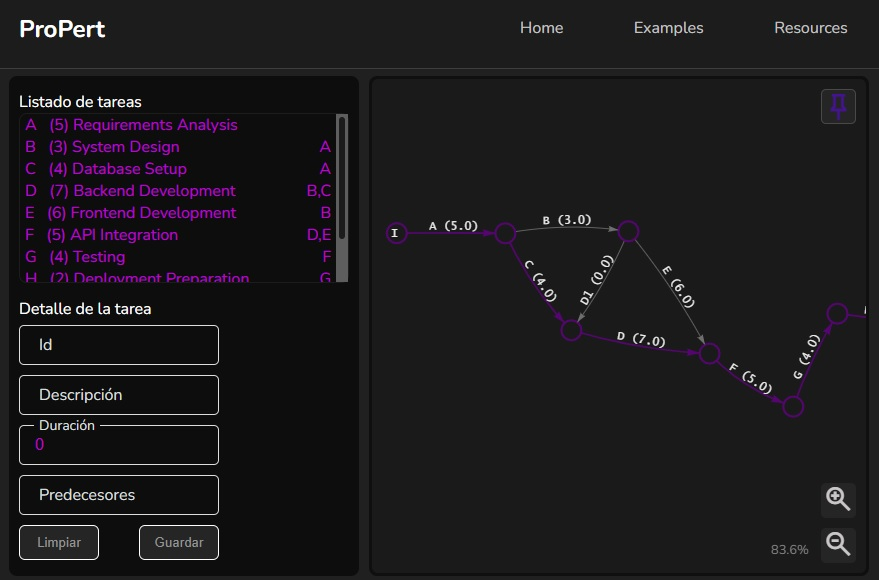
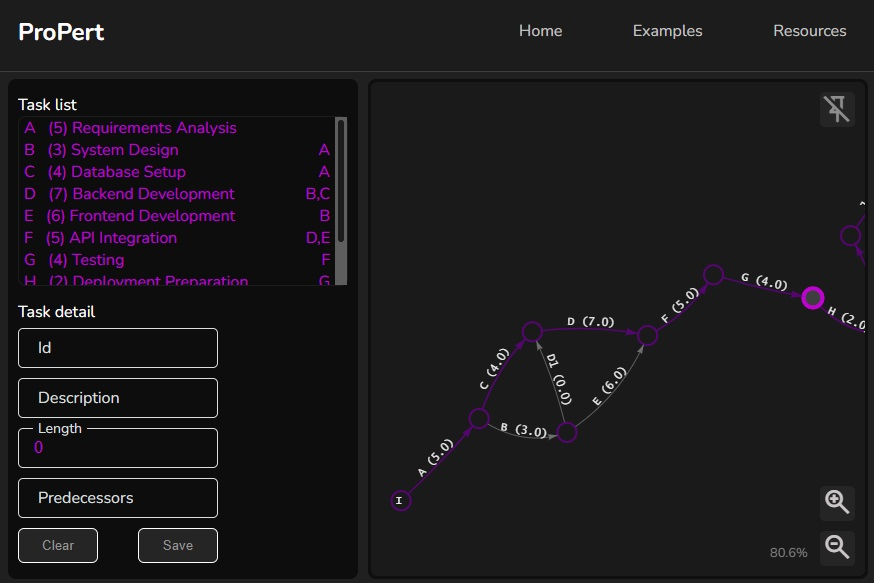
readme screenshot updated

diff --git a/frontend/src/app/task-editor/task-editor.component.html b/frontend/src/app/task-editor/task-editor.component.html
@@ -1,7 +1,7 @@
 <div class="container">
     <div class="tasklist">
         <div class="tasklist-title">
-            Listado de tareas
+            Task list
         </div>    
         <div class="task-list">
             <div *ngFor="let task of tasks" [class.selected]="task.id == selectedTask.id" class="task-element" (click)="selectTask(task)">
@@ -17,7 +17,7 @@
     </div>
     <div class="taskdetail">
         <div class="taskdetail-title">
-            Detalle de la tarea
+            Task detail
         </div>
         <div class="task-detail">
             <div class="input-group">
@@ -26,19 +26,19 @@
             </div>
             <div class="input-group">
                 <input id="taskDescription" type="text" [(ngModel)]="selectedTask.description" autocomplete="off" required>
-                <label for="">Descripción</label>
+                <label for="">Description</label>
             </div>
             <div class="input-group">
                 <input id="taskLength" type="number" [(ngModel)]="selectedTask.length" autocomplete="off" step="any" required>
-                <label for="">Duración</label>
+                <label for="">Length</label>
             </div>
             <div class="input-group">
                 <input id="taskPredecessors" type="text" [(ngModel)]="taskPredecessors" autocomplete="off" required>
-                <label for="">Predecesores</label>
+                <label for="">Predecessors</label>
             </div>
             <div class="button-bar">
-                <button class="action-button" (click)="clear()" title="Borrar datos para empezar una nueva tarea">Limpiar</button>
-                <button class="action-button" (click)="save()" title="Guardar tarea">Guardar</button>
+                <button class="action-button" (click)="clear()" title="Clear fields to start a new task">Clear</button>
+                <button class="action-button" (click)="save()" title="Save task">Save</button>
             </div>
         </div>
     </div>
